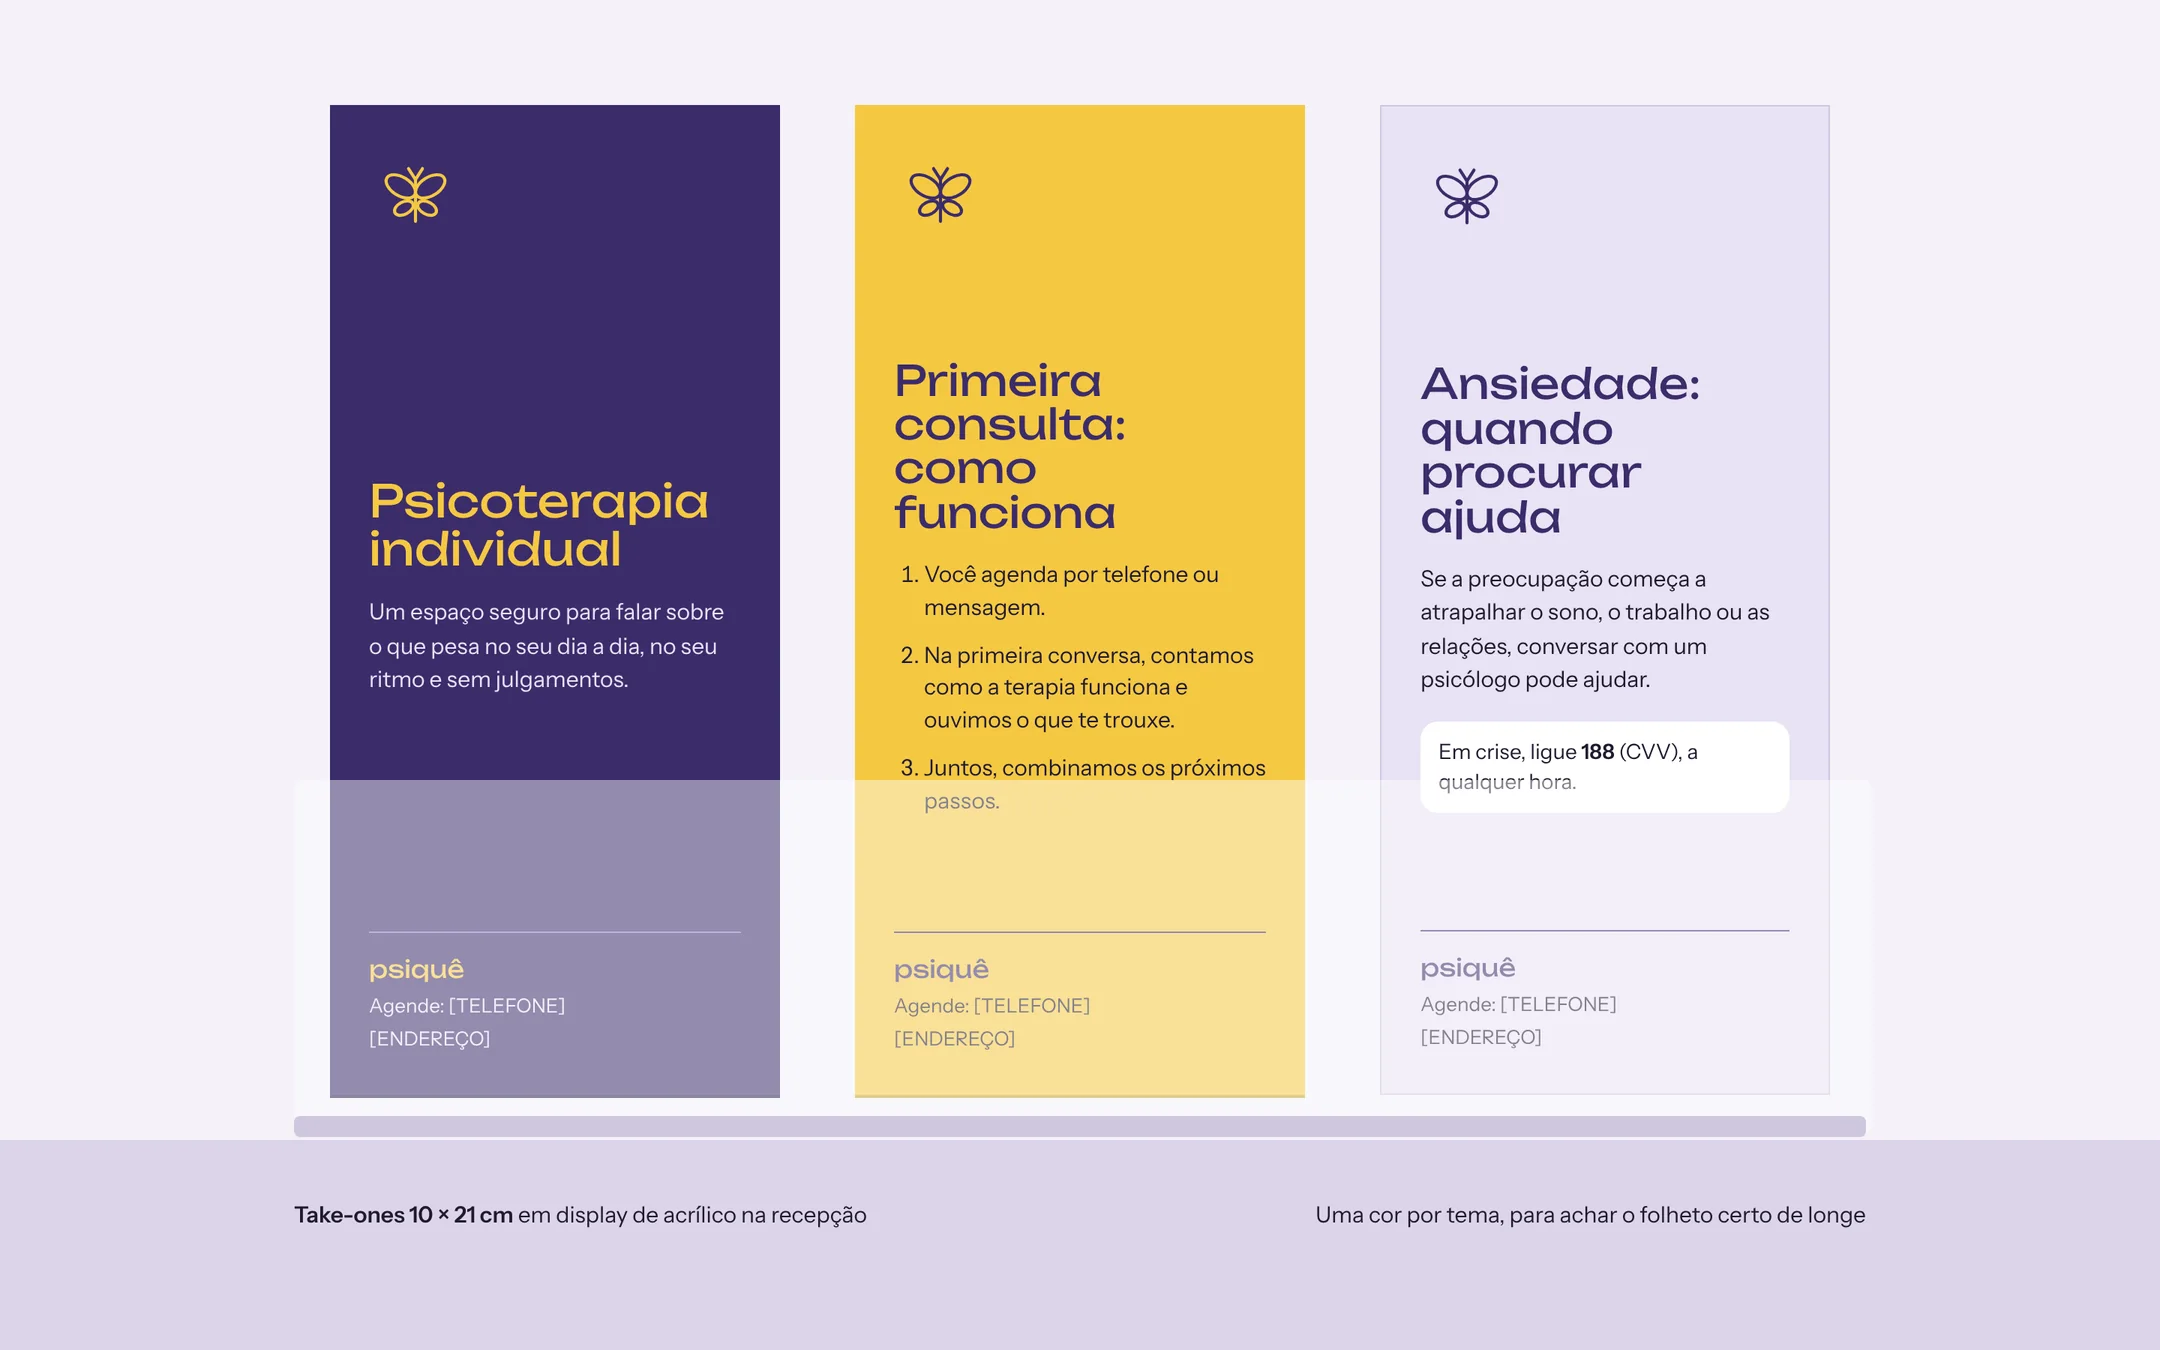
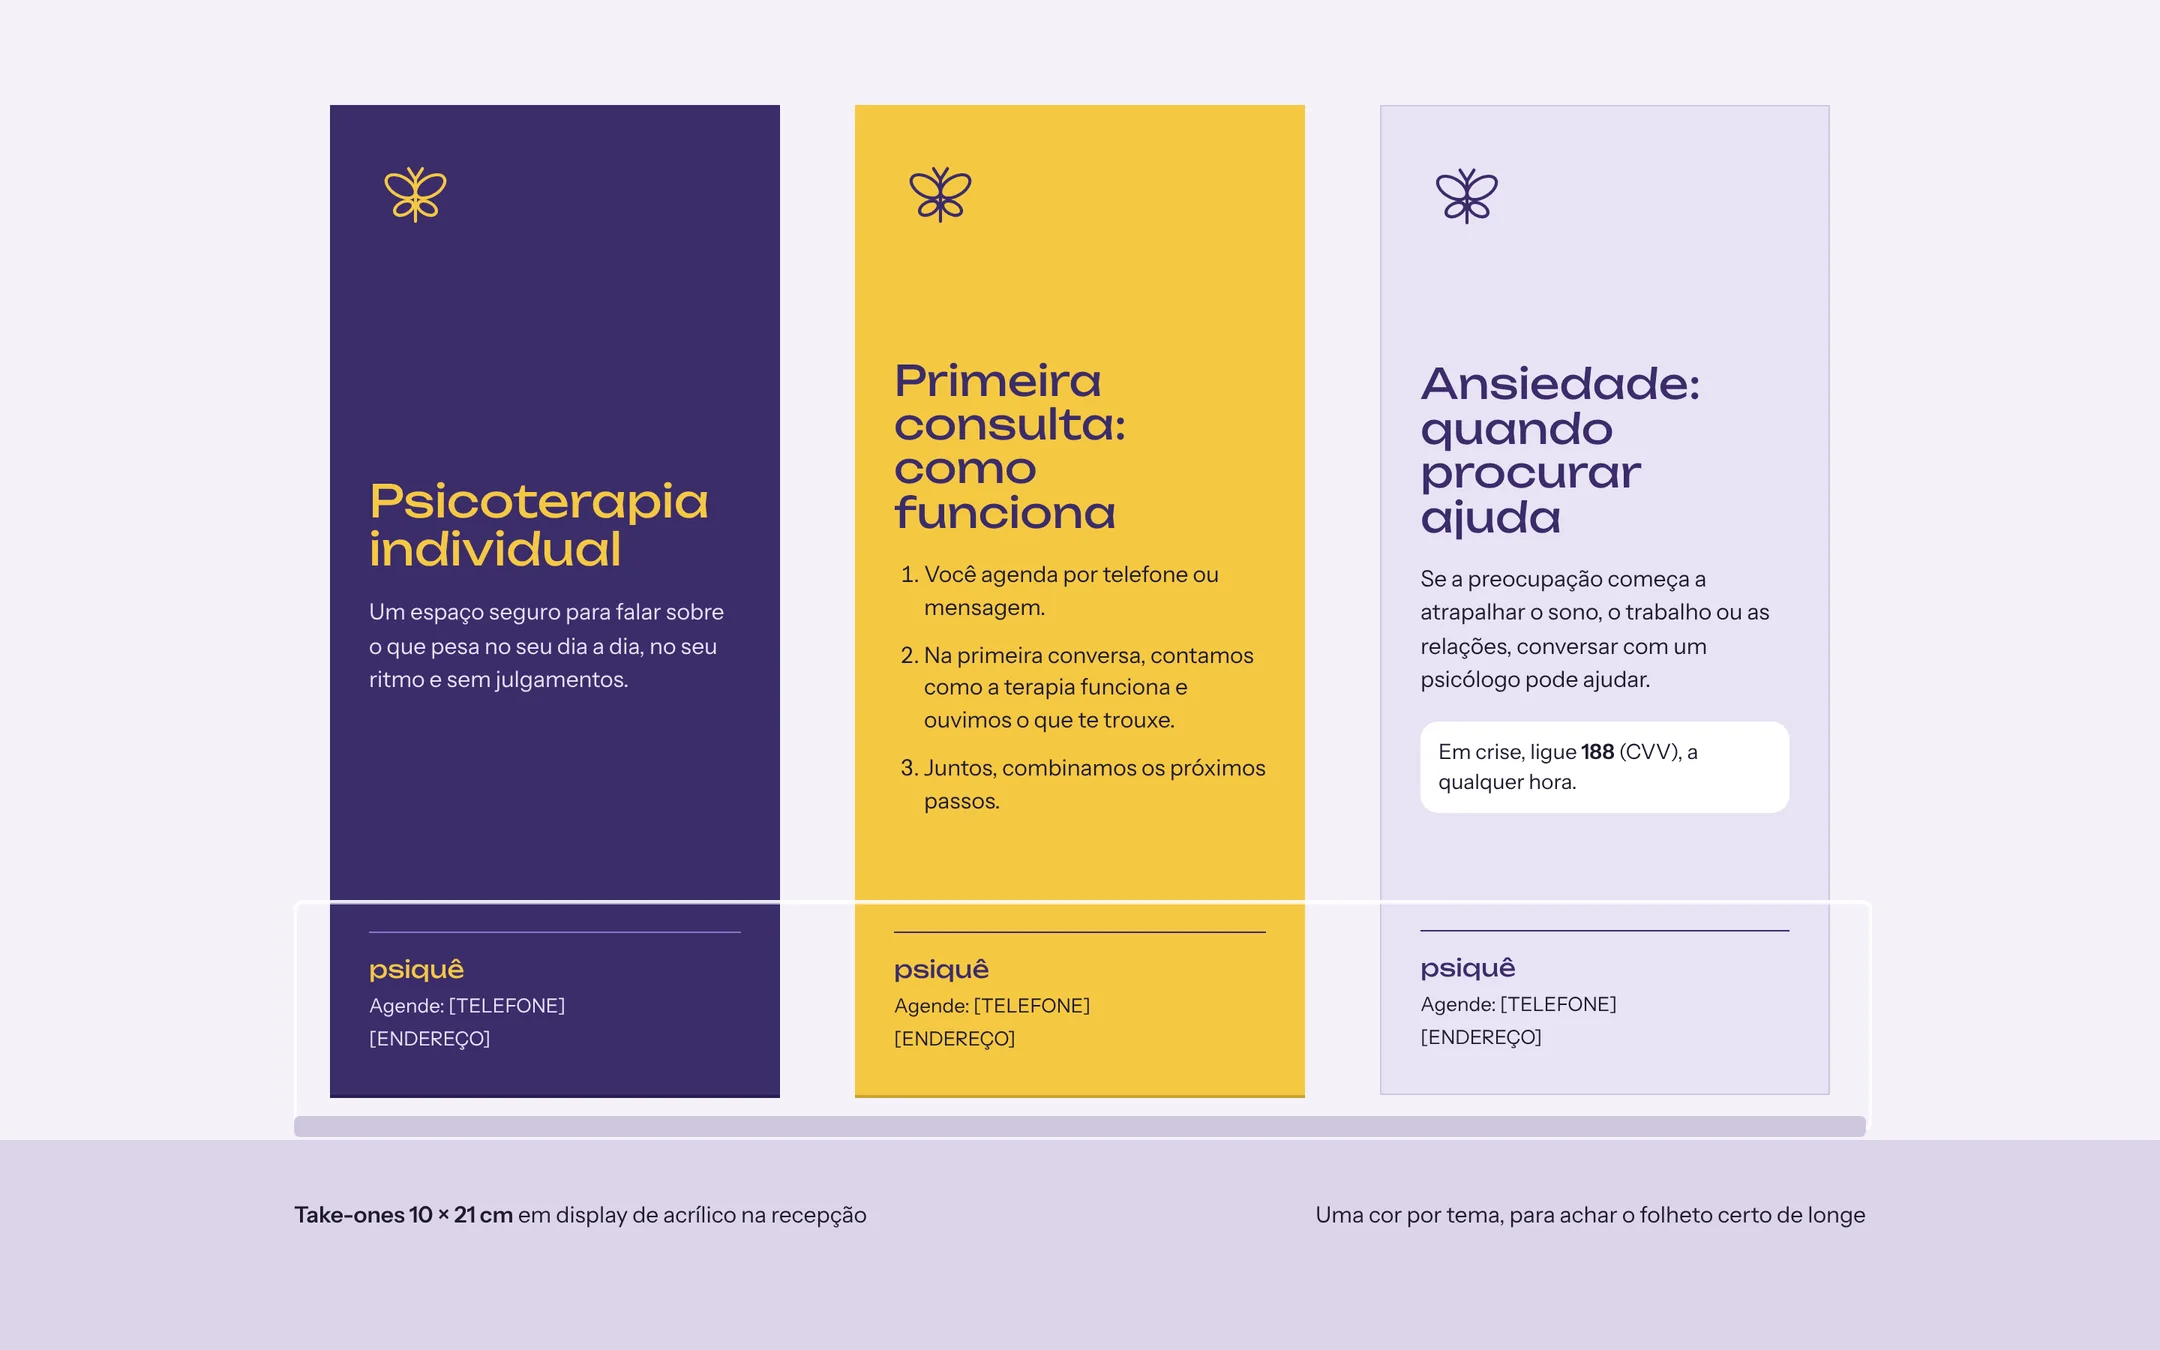
Galeria da Psiquê em miniaturas com ampliação e UniRota sem wireframes

Changed region(s): [[0.1551, 0.56, 0.6204, 0.84], [0.6514, 0.7156, 0.7444, 0.7778]]

diff --git a/projetos/psique.html b/projetos/psique.html
@@ -41,11 +41,11 @@
       <h2>MARCA</h2>
       <div class="pranchas">
         <figure>
-          <a href="psique/marca.webp"><img src="psique/marca.webp" width="2160" height="1350" alt="Prancha da marca Psiquê: símbolo de borboleta amarelo e nome em letras minúsculas sobre roxo, com a paleta de seis cores e as fontes Unbounded e Instrument Sans."></a>
+          <a href="psique/marca.webp"><img src="psique/marca-mini.webp" width="960" height="600" alt="Prancha da marca Psiquê: símbolo de borboleta amarelo e nome em letras minúsculas sobre roxo, com a paleta de seis cores e as fontes Unbounded e Instrument Sans."></a>
           <figcaption><strong>Conceito, cores e tipografia.</strong> Em grego, psyché quer dizer alma e também borboleta. Roxo e amarelo foram pedido da cliente.</figcaption>
         </figure>
         <figure>
-          <a href="psique/logo.webp"><img src="psique/logo.webp" width="2160" height="1350" loading="lazy" alt="Prancha do logo: construção com quatro elipses e traços retos, ícone de app em vários tamanhos, versões sobre roxo, amarelo e branco e a assinatura horizontal."></a>
+          <a href="psique/logo.webp"><img src="psique/logo-mini.webp" width="960" height="600" loading="lazy" alt="Prancha do logo: construção com quatro elipses e traços retos, ícone de app em vários tamanhos, versões sobre roxo, amarelo e branco e a assinatura horizontal."></a>
           <figcaption><strong>Logo e variações.</strong> Quatro elipses espelhadas e traço fino, pensado para funcionar como ícone de app.</figcaption>
         </figure>
       </div>
@@ -55,19 +55,19 @@
       <h2>APLICAÇÕES</h2>
       <div class="pranchas">
         <figure>
-          <a href="psique/fachada.webp"><img src="psique/fachada.webp" width="2160" height="1350" loading="lazy" alt="Fachada da clínica com letreiro roxo, placa bandeira oval amarela e faixas jateadas nos vidros."></a>
+          <a href="psique/fachada.webp"><img src="psique/fachada-mini.webp" width="960" height="600" loading="lazy" alt="Fachada da clínica com letreiro roxo, placa bandeira oval amarela e faixas jateadas nos vidros."></a>
           <figcaption><strong>Fachada.</strong> Letreiro, placa bandeira e faixas jateadas nos vidros.</figcaption>
         </figure>
         <figure>
-          <a href="psique/vidro.webp"><img src="psique/vidro.webp" width="2160" height="1350" loading="lazy" alt="Mural de vidro da recepção com película jateada e padrão de pequenas borboletas lilás."></a>
+          <a href="psique/vidro.webp"><img src="psique/vidro-mini.webp" width="960" height="600" loading="lazy" alt="Mural de vidro da recepção com película jateada e padrão de pequenas borboletas lilás."></a>
           <figcaption><strong>Mural de vidro.</strong> Película jateada na altura dos olhos, para dar privacidade sem fechar a luz.</figcaption>
         </figure>
         <figure>
-          <a href="psique/takeones.webp"><img src="psique/takeones.webp" width="2160" height="1350" loading="lazy" alt="Três folhetos take-one em display de acrílico: roxo, amarelo e lavanda, cada um com um tema."></a>
+          <a href="psique/takeones.webp"><img src="psique/takeones-mini.webp" width="960" height="600" loading="lazy" alt="Três folhetos take-one em display de acrílico: roxo, amarelo e lavanda, cada um com um tema."></a>
           <figcaption><strong>Take-ones.</strong> Folhetos de 10 × 21 cm, com uma cor por tema.</figcaption>
         </figure>
         <figure>
-          <a href="psique/instagram.webp"><img src="psique/instagram.webp" width="2160" height="1350" loading="lazy" alt="Perfil de Instagram da clínica com destaques nas cores da marca, grade de posts e um post em destaque."></a>
+          <a href="psique/instagram.webp"><img src="psique/instagram-mini.webp" width="960" height="600" loading="lazy" alt="Perfil de Instagram da clínica com destaques nas cores da marca, grade de posts e um post em destaque."></a>
           <figcaption><strong>Instagram.</strong> Perfil, destaques, grade e post de 1080 × 1080.</figcaption>
         </figure>
       </div>
@@ -77,11 +77,11 @@
       <h2>MANUAL DE IDENTIDADE</h2>
       <div class="pranchas">
         <figure>
-          <a href="psique/miv-especificacoes.webp"><img src="psique/miv-especificacoes.webp" width="2160" height="1350" loading="lazy" alt="Especificações: tabela de cores em HEX, RGB e CMYK, hierarquia tipográfica, redução mínima e versões em uma cor."></a>
+          <a href="psique/miv-especificacoes.webp"><img src="psique/miv-especificacoes-mini.webp" width="960" height="600" loading="lazy" alt="Especificações: tabela de cores em HEX, RGB e CMYK, hierarquia tipográfica, redução mínima e versões em uma cor."></a>
           <figcaption><strong>Especificações.</strong> Cores para tela e impressão, hierarquia tipográfica, redução mínima e versões em uma cor.</figcaption>
         </figure>
         <figure>
-          <a href="psique/miv-usos-incorretos.webp"><img src="psique/miv-usos-incorretos.webp" width="2160" height="1350" loading="lazy" alt="Seis usos incorretos do logo: distorcido, girado, em cor fora da paleta, sem contraste, com sombra e com outra fonte."></a>
+          <a href="psique/miv-usos-incorretos.webp"><img src="psique/miv-usos-incorretos-mini.webp" width="960" height="600" loading="lazy" alt="Seis usos incorretos do logo: distorcido, girado, em cor fora da paleta, sem contraste, com sombra e com outra fonte."></a>
           <figcaption><strong>Usos incorretos.</strong> O que não fazer com o símbolo e o nome.</figcaption>
         </figure>
       </div>
@@ -91,5 +91,6 @@
       <a class="botao" href="../dados.html#psique">VER OUTROS PROJETOS</a>
     </div>
   </main>
+  <script src="../galeria.js"></script>
 </body>
 </html>

diff --git a/style.css b/style.css
@@ -301,10 +301,46 @@ body.contato-amarelo { --onda-cor: 0,0,0; --onda-fundo: #f3e594; background: #f3
   border-bottom: 1px solid var(--tinta); background: var(--amarelo);
   font-weight: 500; max-width: none;
 }
-.pranchas { display: grid; gap: clamp(1rem, 3vw, 2rem); padding: clamp(1rem, 3vw, 2rem) clamp(1rem, 2vw, 1.5rem); }
+.pranchas {
+  display: grid; grid-template-columns: repeat(auto-fill, minmax(min(100%, 340px), 1fr));
+  gap: 1.6rem 1.2rem; padding: 1.4rem clamp(1rem, 2vw, 1.5rem) 1.8rem; max-width: 1400px;
+}
 .pranchas figure { margin: 0; }
-.pranchas img { display: block; width: 100%; height: auto; border: 1px solid var(--tinta); background: var(--claro); }
+.pranchas a { display: block; position: relative; cursor: zoom-in; }
+.pranchas img { display: block; width: 100%; height: auto; border: 1px solid var(--tinta); background: var(--claro); transition: transform 0.15s; }
+.pranchas a::after {
+  content: "AMPLIAR"; position: absolute; right: 0.5rem; bottom: 0.5rem;
+  font-family: "Departure", monospace; font-size: 0.7rem; padding: 0.15rem 0.4rem;
+  background: var(--tinta); color: var(--aluminio); opacity: 0; transition: opacity 0.15s;
+}
+.pranchas a:hover::after, .pranchas a:focus-visible::after { opacity: 1; }
 .pranchas a:hover img { outline: 3px solid var(--amarelo); outline-offset: -3px; }
-.pranchas figcaption { margin-top: 0.55rem; max-width: 70ch; }
+.pranchas figcaption { margin-top: 0.55rem; font-size: 0.95rem; max-width: 52ch; }
+
+/* imagem ampliada */
+.ampliada {
+  width: 100vw; height: 100dvh; max-width: none; max-height: none; margin: 0; padding: 0; border: 0;
+  background: #08090c; color: #e6e9f0;
+  grid-template-rows: auto 1fr auto;
+}
+.ampliada[open] { display: grid; }
+.ampliada::backdrop { background: rgba(0, 0, 0, 0.6); }
+.ampliada-topo { display: flex; justify-content: space-between; align-items: center; gap: 1rem; padding: 0.8rem clamp(1rem, 2vw, 1.5rem); }
+.ampliada-topo > div { display: flex; gap: 1.2rem; align-items: center; }
+.ampliada-topo a { color: inherit; text-underline-offset: 3px; }
+.ampliada button { font: inherit; color: inherit; background: none; border: 0; cursor: pointer; padding: 0.3rem 0.4rem; }
+.ampliada-fechar:hover, .ampliada-topo a:hover { background: var(--amarelo); color: var(--tinta); }
+.ampliada-palco { display: grid; grid-template-columns: auto 1fr auto; align-items: center; min-height: 0; padding: 0 0.5rem; }
+.ampliada-palco img { justify-self: center; max-width: 100%; max-height: calc(100dvh - 9rem); width: auto; height: auto; object-fit: contain; }
+.ampliada-seta { font-size: 1.6rem !important; width: 3rem; height: 3rem; }
+.ampliada-seta:hover { background: var(--amarelo) !important; color: var(--tinta) !important; }
+.ampliada-legenda { margin: 0; padding: 0.7rem clamp(1rem, 2vw, 1.5rem) 1rem; text-align: center; max-width: 70ch; justify-self: center; }
+@media (max-width: 700px) {
+  .ampliada-topo { font-size: 0.72rem; }
+  .ampliada-palco { grid-template-columns: 1fr; padding: 0; }
+  .ampliada-palco img { grid-row: 1; }
+  .ampliada-seta { position: absolute; bottom: 4.5rem; }
+  .ampliada-seta.ant { left: 0.5rem; } .ampliada-seta.prox { right: 0.5rem; }
+}
 .projeto-pg .contato { display: flex; }
 .projeto-pg .botao { justify-self: start; }

diff --git a/galeria.js b/galeria.js
@@ -1,0 +1,64 @@
+/* Galeria das páginas de projeto: miniaturas que abrem ampliadas.
+   Cada <a> dentro de .pranchas vira um item. Sem JavaScript, o link
+   continua abrindo a imagem sozinha. */
+(() => {
+  const itens = [...document.querySelectorAll(".pranchas figure")];
+  if (!itens.length || typeof HTMLDialogElement !== "function") return;
+
+  const caixa = document.createElement("dialog");
+  caixa.className = "ampliada";
+  caixa.setAttribute("aria-label", "Imagem ampliada");
+  caixa.innerHTML = `
+    <div class="ampliada-topo mono">
+      <span class="ampliada-conta"></span>
+      <div>
+        <a class="ampliada-abrir" target="_blank" rel="noopener">TAMANHO REAL</a>
+        <button type="button" class="ampliada-fechar" aria-label="Fechar">FECHAR ✕</button>
+      </div>
+    </div>
+    <div class="ampliada-palco">
+      <button type="button" class="ampliada-seta ant" aria-label="Imagem anterior">←</button>
+      <img alt="">
+      <button type="button" class="ampliada-seta prox" aria-label="Próxima imagem">→</button>
+    </div>
+    <p class="ampliada-legenda"></p>`;
+  document.body.appendChild(caixa);
+
+  const img = caixa.querySelector("img");
+  const legenda = caixa.querySelector(".ampliada-legenda");
+  const conta = caixa.querySelector(".ampliada-conta");
+  const abrir = caixa.querySelector(".ampliada-abrir");
+  let atual = 0;
+
+  function mostrar(i) {
+    atual = (i + itens.length) % itens.length;
+    const fig = itens[atual];
+    const link = fig.querySelector("a");
+    const mini = fig.querySelector("img");
+    img.src = link.getAttribute("href");
+    img.alt = mini.alt;
+    abrir.href = link.getAttribute("href");
+    legenda.innerHTML = fig.querySelector("figcaption")?.innerHTML || "";
+    conta.textContent = `${String(atual + 1).padStart(2, "0")} / ${String(itens.length).padStart(2, "0")}`;
+  }
+
+  itens.forEach((fig, i) => {
+    fig.querySelector("a").addEventListener("click", (e) => {
+      e.preventDefault();
+      mostrar(i);
+      caixa.showModal();
+    });
+  });
+
+  caixa.querySelector(".ant").addEventListener("click", () => mostrar(atual - 1));
+  caixa.querySelector(".prox").addEventListener("click", () => mostrar(atual + 1));
+  caixa.querySelector(".ampliada-fechar").addEventListener("click", () => caixa.close());
+  // clicar fora da imagem fecha
+  caixa.addEventListener("click", (e) => {
+    if (e.target === caixa || e.target.classList.contains("ampliada-palco")) caixa.close();
+  });
+  caixa.addEventListener("keydown", (e) => {
+    if (e.key === "ArrowLeft") mostrar(atual - 1);
+    if (e.key === "ArrowRight") mostrar(atual + 1);
+  });
+})();

diff --git a/dados.js b/dados.js
@@ -30,15 +30,13 @@ const projetos = [
     rotulo: "UNIROTA",
     contexto: "App de carona universitária. Projeto de Gestão Ágil de Projetos na PUC-SP, em que atuei como UX Designer.",
     status: "andamento",
-    resumo: "Sistema de caronas intermunicipais para a comunidade acadêmica, com acesso por e-mail institucional. Fiz os wireframes do app e acompanhei o desenvolvimento em equipe ágil.",
+    resumo: "Sistema de caronas intermunicipais para a comunidade acadêmica, com acesso por e-mail institucional. Cuidei da experiência do usuário, dos fluxos à organização das telas, e acompanhei o desenvolvimento em equipe ágil.",
     feitos: [
-      "Wireframes navegáveis de 41 telas, organizados pelos 10 épicos do backlog",
       "Fluxos, hierarquia e estados definidos antes da alta fidelidade",
       "Equipe de cinco pessoas, com app em React Native e back-end no Supabase",
     ],
-    stack: ["UX", "Wireframes", "HTML", "React Native", "Supabase"],
+    stack: ["UX", "React Native", "Supabase"],
     links: [
-      { texto: "WIREFRAMES NO GITHUB", url: "https://github.com/arcanospeedruns/UniRota" },
       { texto: "REPOSITÓRIO DO APP", url: "https://github.com/jvpbicalho/app-carona-universitaria" },
     ],
   },
